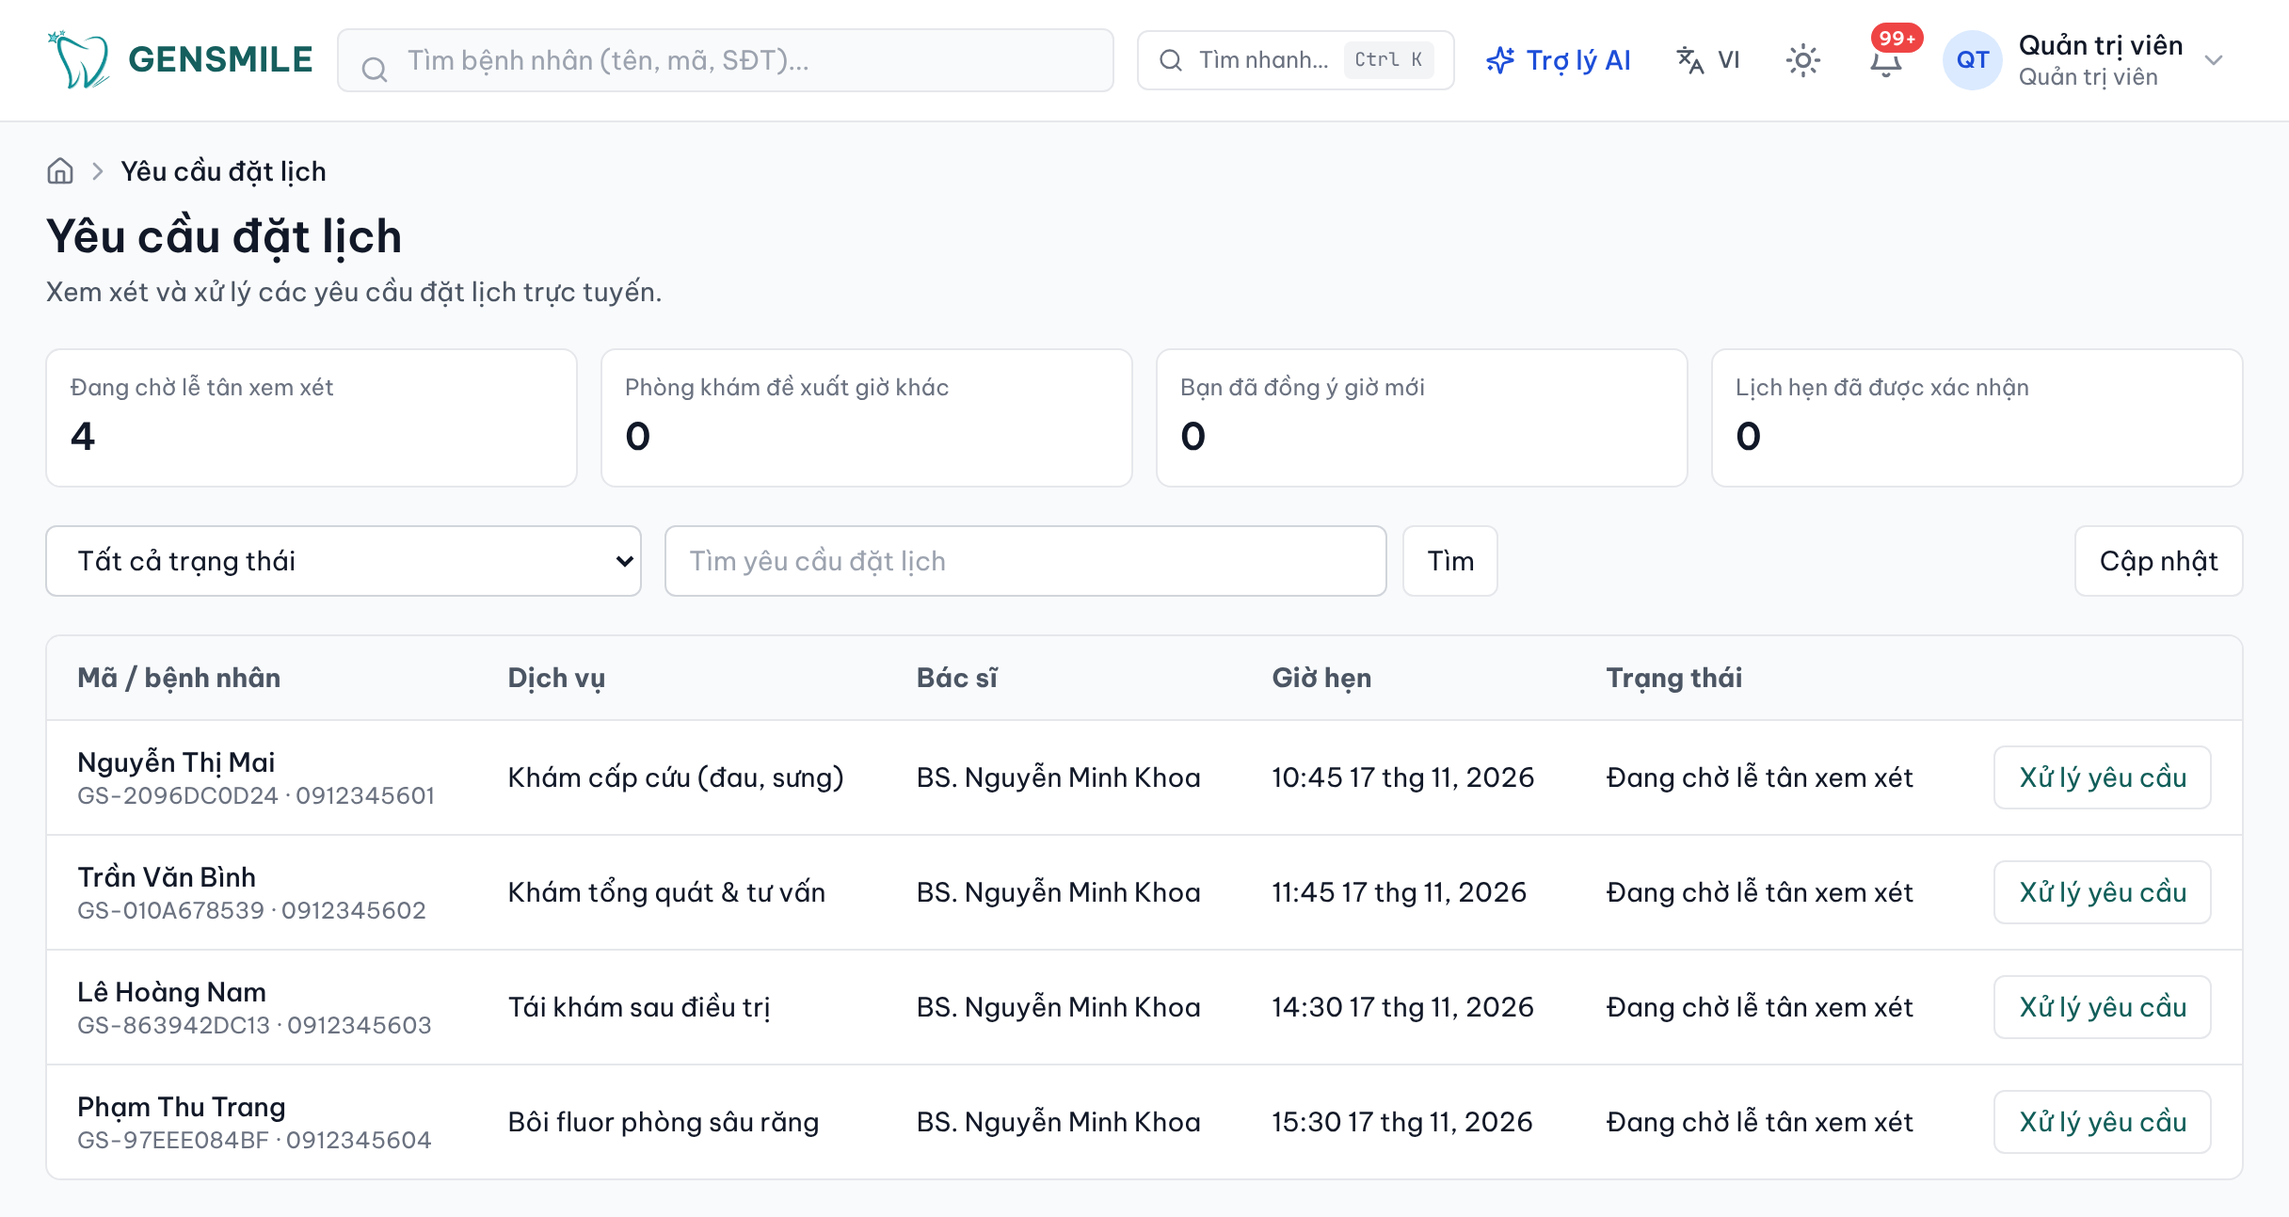
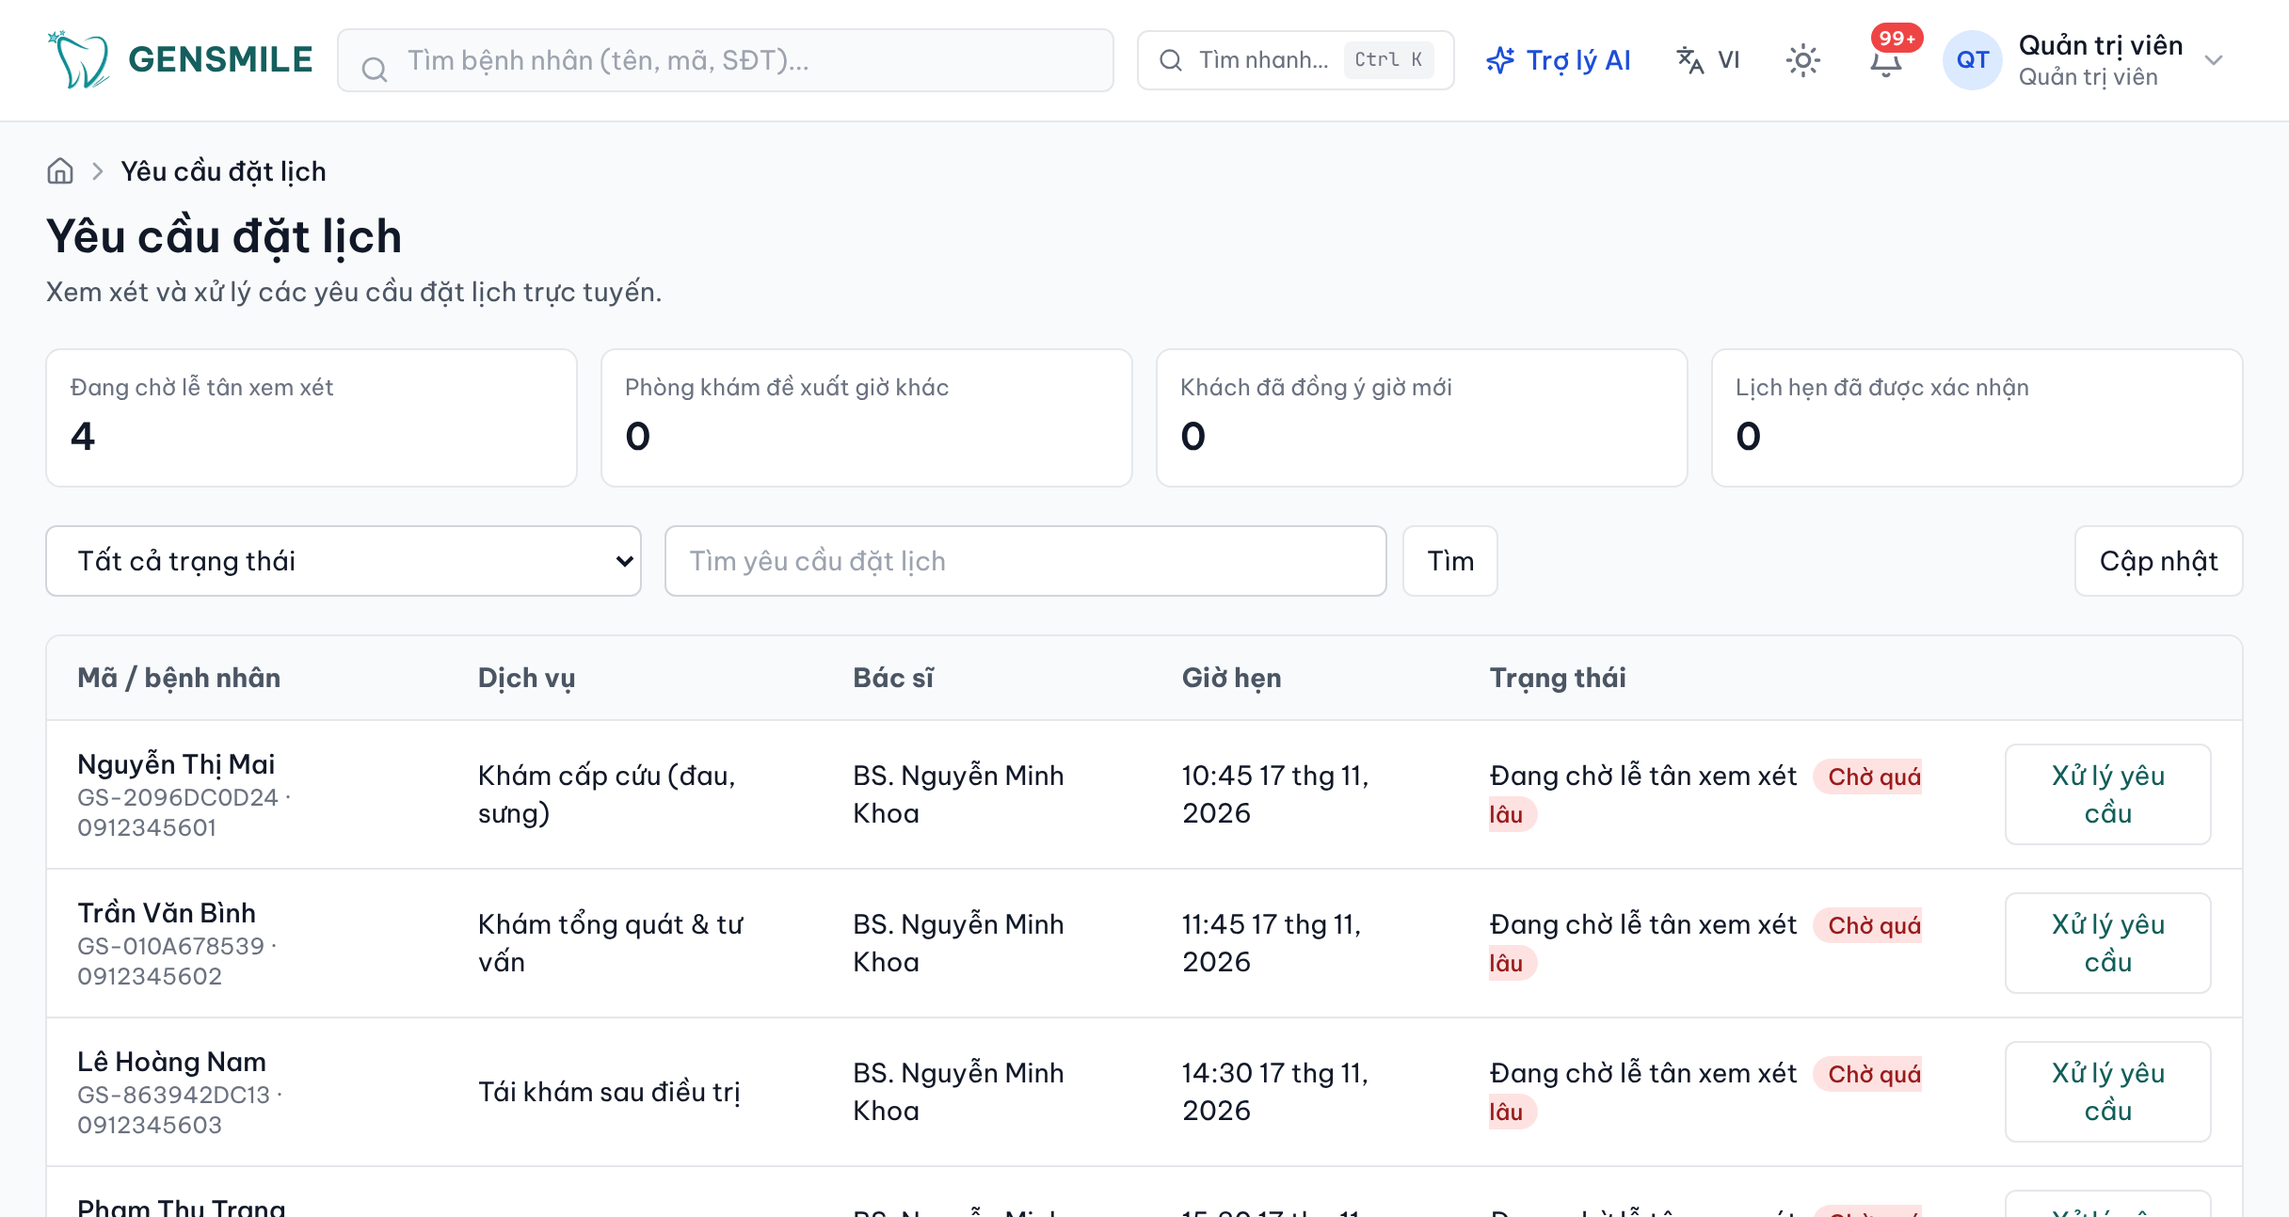
fix(frontend): nhãn trạng thái khách đồng ý giờ mới cho lễ tân; docs(thesis): mô tả Hình 4.4–4.5, chụp lại 4.7
Claude-Session: https://claude.ai/code/session_01TBoubatqgAjjLj8yNYh2bv

diff --git a/frontend/src/locales/uiScheduling.ts b/frontend/src/locales/uiScheduling.ts
@@ -62,7 +62,7 @@ export const vi = {
   errorAcceptProposal: 'Không xác nhận được giờ mới.', acceptNewTime: 'Đồng ý giờ mới', declineNewTime: 'Không đồng ý giờ này, nhờ lễ tân chọn giờ khác', addGoogleCalendar: 'Thêm vào Google Calendar', bookingPreferredTimeHint: 'Giờ nào phù hợp với bạn? (không bắt buộc)', bookingPreferredTimePlaceholder: 'Ví dụ: tôi chỉ rảnh buổi chiều các ngày trong tuần', errorDeclineProposal: 'Không gửi được yêu cầu chọn giờ khác.', sendToReception: 'Gửi cho lễ tân', back: 'Quay lại', errorUpdateDetails: 'Không cập nhật được thông tin.',
   withdrawRequest: 'Tôi muốn hủy yêu cầu này', confirmWithdraw: 'Hủy yêu cầu đặt lịch {{reference}}?', optionalReason: 'Lý do (không bắt buộc)', errorWithdraw: 'Không hủy được yêu cầu.', withdrawRequestAction: 'Hủy yêu cầu', keepRequest: 'Giữ lại', cannotCancelOnline: 'Đã gần đến giờ hẹn nên không hủy trực tuyến được. Nếu không đến được, vui lòng gọi phòng khám.', cancelAppointmentRequest: 'Tôi không đến được, hủy lịch hẹn này', confirmCancelVisit: 'Hủy lịch hẹn {{time}}?', cancelVisitNotice: 'Giờ khám sẽ được nhường cho người khác. Muốn đổi sang giờ khác, hãy gọi phòng khám thay vì hủy.', errorCancelVisit: 'Không hủy được lịch hẹn. Vui lòng gọi phòng khám.', cancelAppointment: 'Hủy lịch hẹn', keepAppointment: 'Giữ lịch', otherBookingsForPhone: 'Các lịch khác của số này', bookingPrivacyNote: 'Trang này chỉ hiển thị tình trạng đặt lịch, không hiển thị hồ sơ khám.',
   bookingHeldNote: 'Giờ bạn chọn được giữ cho bạn trong lúc phòng khám xem xét.', bookingResponsePromise: 'Lễ tân sẽ phản hồi trong vòng 30 phút trong giờ làm việc ({{hours}}). Ngoài giờ, phòng khám sẽ liên hệ ngay khi mở cửa.', waitingSince: 'Chờ {{minutes}} phút', waitingLate: 'Chờ quá lâu',
-  bookingState_PENDING_REVIEW: 'Đang chờ lễ tân xem xét', bookingStateText_PENDING_REVIEW: 'Phòng khám đã nhận yêu cầu của bạn. Lễ tân sẽ gọi hoặc nhắn tin để xác nhận trong giờ làm việc. Bạn chưa cần làm gì thêm.', bookingState_NEEDS_INFORMATION: 'Cần bổ sung thông tin', bookingStateText_NEEDS_INFORMATION: 'Phòng khám cần thêm thông tin để giữ lịch. Đọc lời nhắn bên dưới rồi điền lại biểu mẫu.', bookingState_PROPOSED: 'Phòng khám đề xuất giờ khác', bookingState_PATIENT_ACCEPTED: 'Bạn đã đồng ý giờ mới', bookingStateText_PATIENT_ACCEPTED: 'Lễ tân sẽ xác nhận lần cuối và báo lại cho bạn.', bookingState_CONFIRMED: 'Lịch hẹn đã được xác nhận', bookingStateText_CONFIRMED: 'Vui lòng đến trước giờ hẹn khoảng 10 phút, mang theo giấy tờ tùy thân và phim X-quang hoặc đơn thuốc cũ nếu có.', bookingState_DECLINED: 'Phòng khám chưa thể tiếp nhận yêu cầu', bookingStateText_DECLINED: 'Rất tiếc, lịch này chưa thể sắp xếp. Bạn có thể chọn giờ khác hoặc gọi lễ tân để được hỗ trợ.', bookingState_CANCELLED: 'Yêu cầu đã được hủy', bookingStateText_CANCELLED: 'Yêu cầu này không còn hiệu lực. Bạn có thể đặt lịch mới bất cứ lúc nào.', bookingState_EXPIRED: 'Yêu cầu đã quá hạn', bookingStateText_EXPIRED: 'Đã qua giờ hẹn mà phòng khám chưa kịp xác nhận yêu cầu này, nên lịch không được giữ. Vui lòng đặt lịch mới hoặc gọi lễ tân để được sắp xếp.',
+  bookingState_PENDING_REVIEW: 'Đang chờ lễ tân xem xét', bookingStateText_PENDING_REVIEW: 'Phòng khám đã nhận yêu cầu của bạn. Lễ tân sẽ gọi hoặc nhắn tin để xác nhận trong giờ làm việc. Bạn chưa cần làm gì thêm.', bookingState_NEEDS_INFORMATION: 'Cần bổ sung thông tin', bookingStateText_NEEDS_INFORMATION: 'Phòng khám cần thêm thông tin để giữ lịch. Đọc lời nhắn bên dưới rồi điền lại biểu mẫu.', bookingState_PROPOSED: 'Phòng khám đề xuất giờ khác', bookingState_PATIENT_ACCEPTED: 'Bạn đã đồng ý giờ mới', bookingStateStaff_PATIENT_ACCEPTED: 'Khách đã đồng ý giờ mới', bookingStateText_PATIENT_ACCEPTED: 'Lễ tân sẽ xác nhận lần cuối và báo lại cho bạn.', bookingState_CONFIRMED: 'Lịch hẹn đã được xác nhận', bookingStateText_CONFIRMED: 'Vui lòng đến trước giờ hẹn khoảng 10 phút, mang theo giấy tờ tùy thân và phim X-quang hoặc đơn thuốc cũ nếu có.', bookingState_DECLINED: 'Phòng khám chưa thể tiếp nhận yêu cầu', bookingStateText_DECLINED: 'Rất tiếc, lịch này chưa thể sắp xếp. Bạn có thể chọn giờ khác hoặc gọi lễ tân để được hỗ trợ.', bookingState_CANCELLED: 'Yêu cầu đã được hủy', bookingStateText_CANCELLED: 'Yêu cầu này không còn hiệu lực. Bạn có thể đặt lịch mới bất cứ lúc nào.', bookingState_EXPIRED: 'Yêu cầu đã quá hạn', bookingStateText_EXPIRED: 'Đã qua giờ hẹn mà phòng khám chưa kịp xác nhận yêu cầu này, nên lịch không được giữ. Vui lòng đặt lịch mới hoặc gọi lễ tân để được sắp xếp.',
   minutesValue: '{{count}} phút', view: 'Xem', appointmentListCount: 'Hiển thị {{visible}} / {{total}} lịch hẹn', syncing: 'Đang đồng bộ…', viewDate: 'Xem ngày {{date}}', clinicClosedReason: 'Phòng khám nghỉ: {{reason}}', closed: 'Đã đóng', createAppointmentDate: 'Tạo lịch hẹn ngày {{date}}', moreCount: '+{{count}} lịch hẹn', empty: 'Trống', appointmentsThatDay: '{{count}} lịch hẹn', noAppointmentsThatDay: 'Không có lịch hẹn trong ngày này.',
   overdueNotArrived: 'Quá 15 phút chưa đến', over15Minutes: 'trên 15 phút',
   updateAppointment: 'Cập nhật lịch hẹn', appointmentFormHint: 'Điền thông tin lịch hẹn bên dưới.', cancel: 'Hủy', saveChanges: 'Lưu thay đổi', quickSearch: 'Tìm nhanh', newPatient: 'Bệnh nhân mới', change: 'Đổi', findPatient: 'Tìm bệnh nhân', dentistRequired: 'Bác sĩ *', appointmentDateRequired: 'Ngày hẹn *', startTimeRequired: 'Giờ bắt đầu *',

diff --git a/frontend/src/locales/en/uiScheduling.ts b/frontend/src/locales/en/uiScheduling.ts
@@ -62,7 +62,7 @@ export const en = {
   errorAcceptProposal: 'Could not accept the new time.', acceptNewTime: 'Accept new time', declineNewTime: 'Decline this time and ask reception to choose another', addGoogleCalendar: 'Add to Google Calendar', bookingPreferredTimeHint: 'What time works for you? (optional)', bookingPreferredTimePlaceholder: 'For example: I am only available in the afternoons on weekdays', errorDeclineProposal: 'Could not ask the clinic to choose another time.', sendToReception: 'Send to reception', back: 'Back', errorUpdateDetails: 'Could not update your information.',
   withdrawRequest: 'I want to cancel this request', confirmWithdraw: 'Cancel booking request {{reference}}?', optionalReason: 'Reason (optional)', errorWithdraw: 'Could not cancel the request.', withdrawRequestAction: 'Cancel request', keepRequest: 'Keep request', cannotCancelOnline: 'It is too close to the appointment time to cancel online. Please call the clinic if you cannot attend.', cancelAppointmentRequest: 'I cannot attend; cancel this appointment', confirmCancelVisit: 'Cancel the appointment at {{time}}?', cancelVisitNotice: 'The appointment time will be made available to another patient. Call the clinic to reschedule instead of cancelling.', errorCancelVisit: 'Could not cancel the appointment. Please call the clinic.', cancelAppointment: 'Cancel appointment', keepAppointment: 'Keep appointment', otherBookingsForPhone: 'Other bookings for this number', bookingPrivacyNote: 'This page shows booking status only and does not display medical records.',
   bookingHeldNote: 'Your chosen time is held for you while the clinic reviews it.', bookingResponsePromise: 'Reception will reply within 30 minutes during business hours ({{hours}}). Outside those hours, the clinic will contact you as soon as it opens.', waitingSince: 'Waiting {{minutes}} min', waitingLate: 'Waiting too long',
-  bookingState_PENDING_REVIEW: 'Awaiting clinic review', bookingStateText_PENDING_REVIEW: 'The clinic received your request. Reception will call or message you to confirm during business hours. No further action is needed yet.', bookingState_NEEDS_INFORMATION: 'More information needed', bookingStateText_NEEDS_INFORMATION: 'The clinic needs more information to hold your appointment. Read the message below and complete the form again.', bookingState_PROPOSED: 'The clinic proposed another time', bookingState_PATIENT_ACCEPTED: 'You accepted the new time', bookingStateText_PATIENT_ACCEPTED: 'Reception will confirm the appointment and get back to you.', bookingState_CONFIRMED: 'Appointment confirmed', bookingStateText_CONFIRMED: 'Please arrive about 10 minutes early and bring identification, X-rays, or previous prescriptions if available.', bookingState_DECLINED: 'The clinic cannot accept this request', bookingStateText_DECLINED: 'We are sorry, but this appointment could not be arranged. Choose another time or call reception for help.', bookingState_CANCELLED: 'Request cancelled', bookingStateText_CANCELLED: 'This request is no longer active. You can book another appointment at any time.', bookingState_EXPIRED: 'Request expired', bookingStateText_EXPIRED: 'The requested time passed before the clinic could confirm, so the appointment was not held. Please book again or call reception.',
+  bookingState_PENDING_REVIEW: 'Awaiting clinic review', bookingStateText_PENDING_REVIEW: 'The clinic received your request. Reception will call or message you to confirm during business hours. No further action is needed yet.', bookingState_NEEDS_INFORMATION: 'More information needed', bookingStateText_NEEDS_INFORMATION: 'The clinic needs more information to hold your appointment. Read the message below and complete the form again.', bookingState_PROPOSED: 'The clinic proposed another time', bookingState_PATIENT_ACCEPTED: 'You accepted the new time', bookingStateStaff_PATIENT_ACCEPTED: 'Patient accepted the new time', bookingStateText_PATIENT_ACCEPTED: 'Reception will confirm the appointment and get back to you.', bookingState_CONFIRMED: 'Appointment confirmed', bookingStateText_CONFIRMED: 'Please arrive about 10 minutes early and bring identification, X-rays, or previous prescriptions if available.', bookingState_DECLINED: 'The clinic cannot accept this request', bookingStateText_DECLINED: 'We are sorry, but this appointment could not be arranged. Choose another time or call reception for help.', bookingState_CANCELLED: 'Request cancelled', bookingStateText_CANCELLED: 'This request is no longer active. You can book another appointment at any time.', bookingState_EXPIRED: 'Request expired', bookingStateText_EXPIRED: 'The requested time passed before the clinic could confirm, so the appointment was not held. Please book again or call reception.',
   minutesValue: '{{count}} minutes', view: 'View', appointmentListCount: 'Showing {{visible}} / {{total}} appointments', syncing: 'Syncing…', viewDate: 'View {{date}}', clinicClosedReason: 'Clinic closed: {{reason}}', closed: 'Closed', createAppointmentDate: 'Create appointment on {{date}}', moreCount: '+{{count}} appointments', empty: 'Empty', appointmentsThatDay: '{{count}} appointments', noAppointmentsThatDay: 'No appointments on this day.',
   overdueNotArrived: 'Over 15 minutes late', over15Minutes: 'over 15 minutes',
   updateAppointment: 'Update appointment', appointmentFormHint: 'Enter the appointment details below.', cancel: 'Cancel', saveChanges: 'Save changes', quickSearch: 'Quick search', newPatient: 'New patient', change: 'Change', findPatient: 'Find patient', dentistRequired: 'Dentist *', appointmentDateRequired: 'Appointment date *', startTimeRequired: 'Start time *', createAppointmentDateTime: 'Create appointment on {{date}} at {{time}}', clinicClosedAllDay: 'Clinic closed all day: {{reason}}',

diff --git a/frontend/src/features/booking/BookingRequestsPage.tsx b/frontend/src/features/booking/BookingRequestsPage.tsx
@@ -106,7 +106,12 @@ const matchLabel = (p: PatientMatch, t: TFunction) =>
     .filter(Boolean)
     .join(" · ");
 const REQUEST_STATES = ["PENDING_REVIEW", "NEEDS_INFORMATION", "PROPOSED", "PATIENT_ACCEPTED", "CONFIRMED", "DECLINED", "CANCELLED", "EXPIRED"];
-const requestState = (t: TFunction, status: string) => t(`uiScheduling.bookingState_${status}`);
+// The patient-facing labels say "you" for the patient; staff read the same
+// status about the patient, so the one first-person label has a staff variant.
+const requestState = (t: TFunction, status: string) =>
+  status === 'PATIENT_ACCEPTED'
+    ? t('uiScheduling.bookingStateStaff_PATIENT_ACCEPTED')
+    : t(`uiScheduling.bookingState_${status}`);
 const visitState = (t: TFunction, status: string) => {
   const key: Record<string, string> = { SCHEDULED: 'statusScheduled', CONFIRMED: 'statusConfirmed', CHECKED_IN: 'statusCheckedIn', IN_PROGRESS: 'statusInProgress', COMPLETED: 'statusCompleted', CANCELLED: 'statusCancelled', NO_SHOW: 'statusNoShow', LEFT: 'statusLeft' };
   return key[status] ? t(`uiScheduling.${key[status]}`) : status;

diff --git a/docs/10_Thesis/bao-cao/14-chuong-4.md b/docs/10_Thesis/bao-cao/14-chuong-4.md
@@ -223,7 +223,7 @@ Nguồn: Tác giả, chụp từ hệ thống GenSmile
 
 ### 4.5.2. Lễ tân: tiếp nhận và điều phối trong ngày
 
-Màn hình "Hôm nay" (Hình 4.4) tóm tắt số lịch, số khách chưa đến, đã đến, đang khám và danh sách lịch hẹn trong ngày theo giờ, mỗi lịch có nút check-in. Màn hình điều phối (Hình 4.5) hiển thị từng bác sĩ cùng khách đang khám và hàng chờ của bác sĩ đó; lễ tân có thể chuyển khách sang bác sĩ khác, ưu tiên cấp cứu hoặc ghi nhận khách về trước. Lịch hẹn (Hình 4.6) hiển thị theo ngày, tuần hoặc tháng; mỗi lịch có chấm màu theo bác sĩ và có thể lọc riêng từng bác sĩ, bấm vào khung giờ trống để tạo lịch mới.
+Màn hình "Hôm nay" (Hình 4.4) tóm tắt tổng số lịch hẹn, số khách đang chờ hoặc đang khám, số ca đã hoàn thành, và liệt kê lịch hẹn trong ngày theo giờ kèm trạng thái từng lịch (lịch chưa đến có nút check-in). Màn hình điều phối (Hình 4.5) hiển thị hàng chờ của từng bác sĩ, mỗi khách kèm mức ưu tiên và thời gian đã chờ; lễ tân có thể gọi, bỏ qua, đánh dấu cấp cứu, chuyển khách sang bác sĩ khác, ghi nhận khách về trước hoặc hoàn tác check-in, và chuyển toàn bộ lịch trong ngày sang bác sĩ khác khi một bác sĩ vắng. Lịch hẹn (Hình 4.6) hiển thị theo ngày, tuần hoặc tháng; mỗi lịch có chấm màu theo bác sĩ và có thể lọc riêng từng bác sĩ, bấm vào khung giờ trống để tạo lịch mới.
 
 ::: {custom-style="Ảnh"}
 ![](hinh/4-lt-hom-nay.png){width=15cm}

diff --git a/docs/progress/session-log.md b/docs/progress/session-log.md
@@ -153,3 +153,4 @@
 - Chụp lại Hình 4.18 (đóng phiên), 4.21, 4.22 (hóa đơn), 4.30 (duyệt ca), 4.31 (kỳ lương), 4.41 (sổ đồng thuận). Để chụp 4.21/4.18 đã tạm đổi dữ liệu demo cục bộ (xóa/khôi phục payment, mở/đóng lại phiên) và khôi phục nguyên trạng; dev-local cần VIETQR_* để hiện mã QR.
 - Locales vi: sửa thêm 'clinical note', 'status', 'AI summary' (giữ từ vay quen: check-in, online, link, Dashboard).
 - Đối chiếu mô tả ↔ ảnh Chương 4: sửa mô tả Hình 4.27 (kho: nút Sắp hết, mục Nên nhập), 4.34 (thẻ thật: bệnh nhân, lịch hẹn, doanh số, đã thu; không có công nợ), 4.35 (3 mức đánh giá), 4.32 (mẫu khám nhanh).
+- Sửa mô tả Hình 4.4 (3 thẻ thật), 4.5 (các thao tác điều phối). Lỗi giao diện: trang Yêu cầu đặt lịch của lễ tân hiện 'Bạn đã đồng ý giờ mới' (chuỗi của khách) → thêm nhãn bookingStateStaff_PATIENT_ACCEPTED 'Khách đã đồng ý giờ mới' (vi/en); chụp lại Hình 4.7.
